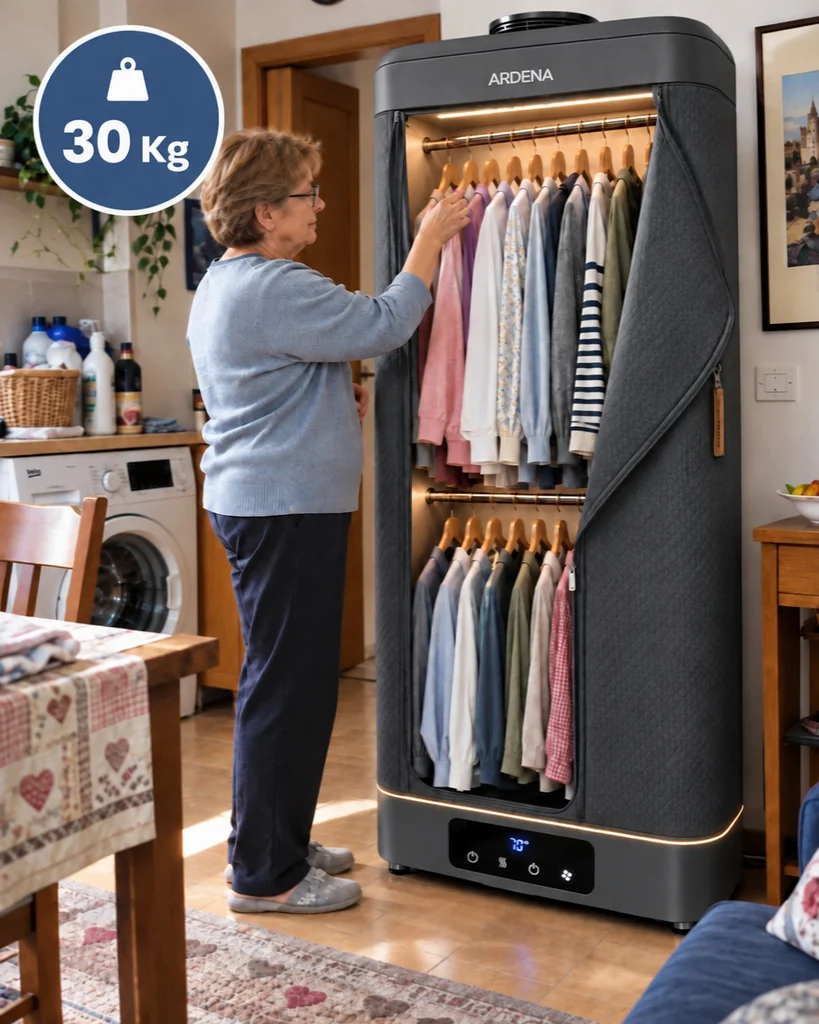
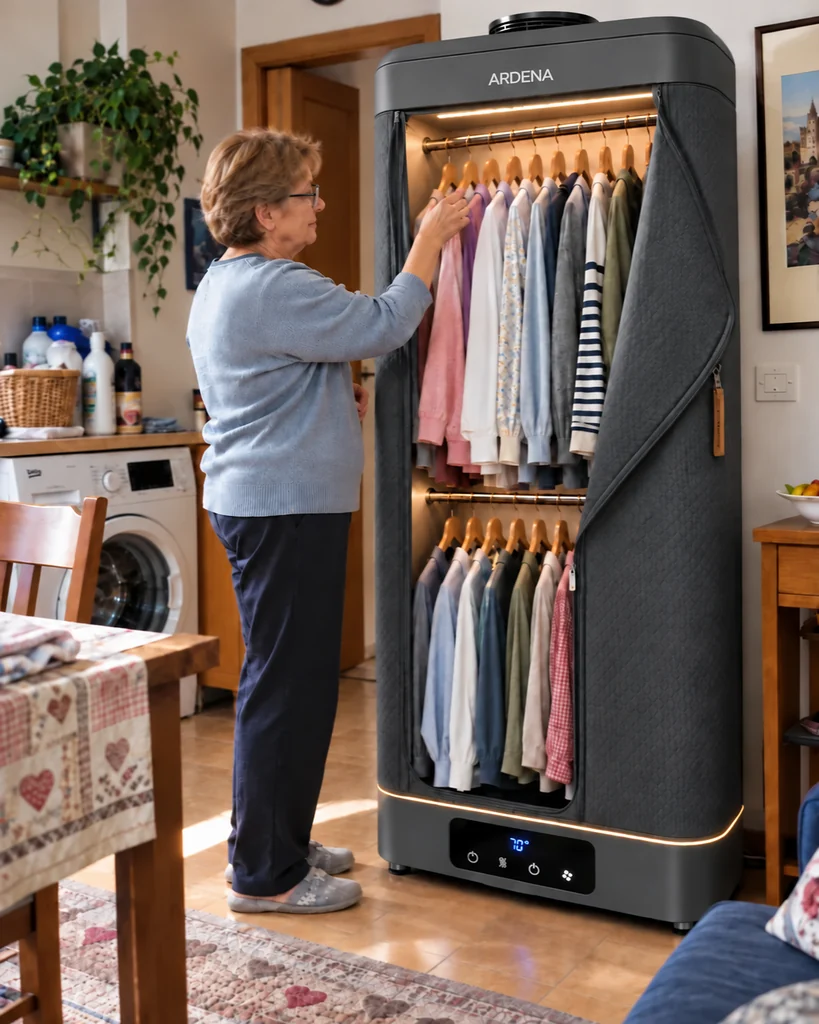
Hero asciugatrice IT: rimosso badge 30Kg dalle hero + bump ?v

diff --git a/it/fastdry/landing.html b/it/fastdry/landing.html
@@ -61,7 +61,7 @@
  "@context": "https://schema.org",
  "@type": "Product",
  "name": "FastDry™",
- "image": "https://nexofind.com/assets/img/products/fastdry/hero.webp?v=25a84555",
+ "image": "https://nexofind.com/assets/img/products/fastdry/hero.webp?v=1ffe93e3",
  "description": "Asciuga, stira e igienizza il tuo bucato in soli 30 minuti. Dimentica le ore passate a stirare e goditi capi asciutti, stirati e subito pronti da indossare",
  "brand": {
   "@type": "Brand",
@@ -105,7 +105,7 @@ window.SITE_CONFIG = {
       </h1>
       <p class="trim-subtitle"><b>FastDry</b> asciuga, stira e igienizza <b>fino a 30 kg di bucato in 30 minuti</b>, consumando solo 0,35 € di corrente per ogni ciclo.</p>
       <div class="trim-hero__image mobile-only">
-        <img decoding="async" src="/assets/img/products/fastdry/hero.webp?v=25a84555" alt="FastDry™ — ASCIUGATRICE PORTATILE 3 IN 1" width="800" height="1000" fetchpriority="high">
+        <img decoding="async" src="/assets/img/products/fastdry/hero.webp?v=1ffe93e3" alt="FastDry™ — ASCIUGATRICE PORTATILE 3 IN 1" width="800" height="1000" fetchpriority="high">
       </div>
       <div class="c4x-price-box">
         <div class="c4x-price-top">
@@ -181,7 +181,7 @@ window.SITE_CONFIG = {
       <a class="trim-cta" href="#FORM">COMPLETA ORDINE</a>
     </div>
     <div class="trim-hero__image desktop-only">
-      <img decoding="async" src="/assets/img/products/fastdry/hero.webp?v=25a84555" alt="FastDry™ — ASCIUGATRICE PORTATILE 3 IN 1" width="800" height="1000" fetchpriority="high">
+      <img decoding="async" src="/assets/img/products/fastdry/hero.webp?v=1ffe93e3" alt="FastDry™ — ASCIUGATRICE PORTATILE 3 IN 1" width="800" height="1000" fetchpriority="high">
     </div>
   </div>
 </section>

diff --git a/it/salvera/landing.html b/it/salvera/landing.html
@@ -61,7 +61,7 @@
  "@context": "https://schema.org",
  "@type": "Product",
  "name": "SALVERA™",
- "image": "https://nexofind.com/assets/img/products/salvera/hero.webp?v=6957b803",
+ "image": "https://nexofind.com/assets/img/products/salvera/hero.webp?v=ca092a37",
  "description": "Asciuga, stira e igienizza il tuo bucato in soli 30 minuti. Dimentica le ore passate a stirare e goditi capi asciutti, stirati e subito pronti da indossare",
  "brand": {
   "@type": "Brand",
@@ -105,7 +105,7 @@ window.SITE_CONFIG = {
       </h1>
       <p class="trim-subtitle"><b>SALVERA</b> asciuga, stira e igienizza <b>fino a 30 kg di bucato in 30 minuti</b>, consumando solo 0,35 € di corrente per ogni ciclo.</p>
       <div class="trim-hero__image mobile-only">
-        <img decoding="async" src="/assets/img/products/salvera/hero.webp?v=6957b803" alt="SALVERA™ — ASCIUGATRICE PORTATILE 3 IN 1" width="800" height="1000" fetchpriority="high">
+        <img decoding="async" src="/assets/img/products/salvera/hero.webp?v=ca092a37" alt="SALVERA™ — ASCIUGATRICE PORTATILE 3 IN 1" width="800" height="1000" fetchpriority="high">
       </div>
       <div class="c4x-price-box">
         <div class="c4x-price-top">
@@ -181,7 +181,7 @@ window.SITE_CONFIG = {
       <a class="trim-cta" href="#FORM">COMPLETA ORDINE</a>
     </div>
     <div class="trim-hero__image desktop-only">
-      <img decoding="async" src="/assets/img/products/salvera/hero.webp?v=6957b803" alt="SALVERA™ — ASCIUGATRICE PORTATILE 3 IN 1" width="800" height="1000" fetchpriority="high">
+      <img decoding="async" src="/assets/img/products/salvera/hero.webp?v=ca092a37" alt="SALVERA™ — ASCIUGATRICE PORTATILE 3 IN 1" width="800" height="1000" fetchpriority="high">
     </div>
   </div>
 </section>

diff --git a/it/ardena/landing.html b/it/ardena/landing.html
@@ -61,7 +61,7 @@
  "@context": "https://schema.org",
  "@type": "Product",
  "name": "ARDENA™",
- "image": "https://nexofind.com/assets/img/products/ardena/hero.webp?v=73645392",
+ "image": "https://nexofind.com/assets/img/products/ardena/hero.webp?v=ac0df6c9",
  "description": "Asciuga, stira e igienizza il tuo bucato in soli 30 minuti. Dimentica le ore passate a stirare e goditi capi asciutti, stirati e subito pronti da indossare",
  "brand": {
   "@type": "Brand",
@@ -105,7 +105,7 @@ window.SITE_CONFIG = {
       </h1>
       <p class="trim-subtitle"><b>ARDENA</b> asciuga, stira e igienizza <b>fino a 30 kg di bucato in 30 minuti</b>, consumando solo 0,35 € di corrente per ogni ciclo.</p>
       <div class="trim-hero__image mobile-only">
-        <img decoding="async" src="/assets/img/products/ardena/hero.webp?v=73645392" alt="ARDENA™ — ASCIUGATRICE PORTATILE 3 IN 1" width="800" height="1000" fetchpriority="high">
+        <img decoding="async" src="/assets/img/products/ardena/hero.webp?v=ac0df6c9" alt="ARDENA™ — ASCIUGATRICE PORTATILE 3 IN 1" width="800" height="1000" fetchpriority="high">
       </div>
       <div class="c4x-price-box">
         <div class="c4x-price-top">
@@ -181,7 +181,7 @@ window.SITE_CONFIG = {
       <a class="trim-cta" href="#FORM">COMPLETA ORDINE</a>
     </div>
     <div class="trim-hero__image desktop-only">
-      <img decoding="async" src="/assets/img/products/ardena/hero.webp?v=73645392" alt="ARDENA™ — ASCIUGATRICE PORTATILE 3 IN 1" width="800" height="1000" fetchpriority="high">
+      <img decoding="async" src="/assets/img/products/ardena/hero.webp?v=ac0df6c9" alt="ARDENA™ — ASCIUGATRICE PORTATILE 3 IN 1" width="800" height="1000" fetchpriority="high">
     </div>
   </div>
 </section>

diff --git a/it/marena/landing.html b/it/marena/landing.html
@@ -61,7 +61,7 @@
  "@context": "https://schema.org",
  "@type": "Product",
  "name": "MARENA™",
- "image": "https://nexofind.com/assets/img/products/marena/hero.webp?v=44726a72",
+ "image": "https://nexofind.com/assets/img/products/marena/hero.webp?v=ff2b7a66",
  "description": "Asciuga, stira e igienizza il tuo bucato in soli 30 minuti. Dimentica le ore passate a stirare e goditi capi asciutti, stirati e subito pronti da indossare",
  "brand": {
   "@type": "Brand",
@@ -105,7 +105,7 @@ window.SITE_CONFIG = {
       </h1>
       <p class="trim-subtitle"><b>MARENA</b> asciuga, stira e igienizza <b>fino a 30 kg di bucato in 30 minuti</b>, consumando solo 0,35 € di corrente per ogni ciclo.</p>
       <div class="trim-hero__image mobile-only">
-        <img decoding="async" src="/assets/img/products/marena/hero.webp?v=44726a72" alt="MARENA™ — ASCIUGATRICE PORTATILE 3 IN 1" width="800" height="1000" fetchpriority="high">
+        <img decoding="async" src="/assets/img/products/marena/hero.webp?v=ff2b7a66" alt="MARENA™ — ASCIUGATRICE PORTATILE 3 IN 1" width="800" height="1000" fetchpriority="high">
       </div>
       <div class="c4x-price-box">
         <div class="c4x-price-top">
@@ -181,7 +181,7 @@ window.SITE_CONFIG = {
       <a class="trim-cta" href="#FORM">COMPLETA ORDINE</a>
     </div>
     <div class="trim-hero__image desktop-only">
-      <img decoding="async" src="/assets/img/products/marena/hero.webp?v=44726a72" alt="MARENA™ — ASCIUGATRICE PORTATILE 3 IN 1" width="800" height="1000" fetchpriority="high">
+      <img decoding="async" src="/assets/img/products/marena/hero.webp?v=ff2b7a66" alt="MARENA™ — ASCIUGATRICE PORTATILE 3 IN 1" width="800" height="1000" fetchpriority="high">
     </div>
   </div>
 </section>

diff --git a/it/fastdry/thank-you.html b/it/fastdry/thank-you.html
@@ -102,7 +102,7 @@ window.SITE_CONFIG = {
   <p class="ty-subhead">Perfetto — il tuo ordine è in elaborazione. Manca solo <strong>un ultimo passaggio</strong> per completarlo e far partire la spedizione.</p>
 
   <div class="ty-product">
-    <img src="/assets/img/products/fastdry/hero.webp?v=20260909" alt="Kit completo FastDry™" width="88" height="88">
+    <img src="/assets/img/products/fastdry/hero.webp?v=1ffe93e3" alt="Kit completo FastDry™" width="88" height="88">
     <div>
       <div class="ty-product__name">FastDry™ — asciugatrice portatile 3 in 1</div>
       <div class="ty-product__meta">Kit completo · Pagamento alla consegna</div>

diff --git a/it/salvera/thank-you.html b/it/salvera/thank-you.html
@@ -102,7 +102,7 @@ window.SITE_CONFIG = {
   <p class="ty-subhead">Perfetto — il tuo ordine è in elaborazione. Manca solo <strong>un ultimo passaggio</strong> per completarlo e far partire la spedizione.</p>
 
   <div class="ty-product">
-    <img src="/assets/img/products/salvera/hero.webp?v=6957b803" alt="Kit completo SALVERA™" width="88" height="88">
+    <img src="/assets/img/products/salvera/hero.webp?v=ca092a37" alt="Kit completo SALVERA™" width="88" height="88">
     <div>
       <div class="ty-product__name">SALVERA™ — asciugatrice portatile 3 in 1</div>
       <div class="ty-product__meta">Kit completo · Pagamento alla consegna</div>

diff --git a/it/ardena/thank-you.html b/it/ardena/thank-you.html
@@ -102,7 +102,7 @@ window.SITE_CONFIG = {
   <p class="ty-subhead">Perfetto — il tuo ordine è in elaborazione. Manca solo <strong>un ultimo passaggio</strong> per completarlo e far partire la spedizione.</p>
 
   <div class="ty-product">
-    <img src="/assets/img/products/ardena/hero.webp?v=73645392" alt="Kit completo ARDENA™" width="88" height="88">
+    <img src="/assets/img/products/ardena/hero.webp?v=ac0df6c9" alt="Kit completo ARDENA™" width="88" height="88">
     <div>
       <div class="ty-product__name">ARDENA™ — asciugatrice portatile 3 in 1</div>
       <div class="ty-product__meta">Kit completo · Pagamento alla consegna</div>

diff --git a/it/marena/thank-you.html b/it/marena/thank-you.html
@@ -102,7 +102,7 @@ window.SITE_CONFIG = {
   <p class="ty-subhead">Perfetto — il tuo ordine è in elaborazione. Manca solo <strong>un ultimo passaggio</strong> per completarlo e far partire la spedizione.</p>
 
   <div class="ty-product">
-    <img src="/assets/img/products/marena/hero.webp?v=44726a72" alt="Kit completo MARENA™" width="88" height="88">
+    <img src="/assets/img/products/marena/hero.webp?v=ff2b7a66" alt="Kit completo MARENA™" width="88" height="88">
     <div>
       <div class="ty-product__name">MARENA™ — asciugatrice portatile 3 in 1</div>
       <div class="ty-product__meta">Kit completo · Pagamento alla consegna</div>
